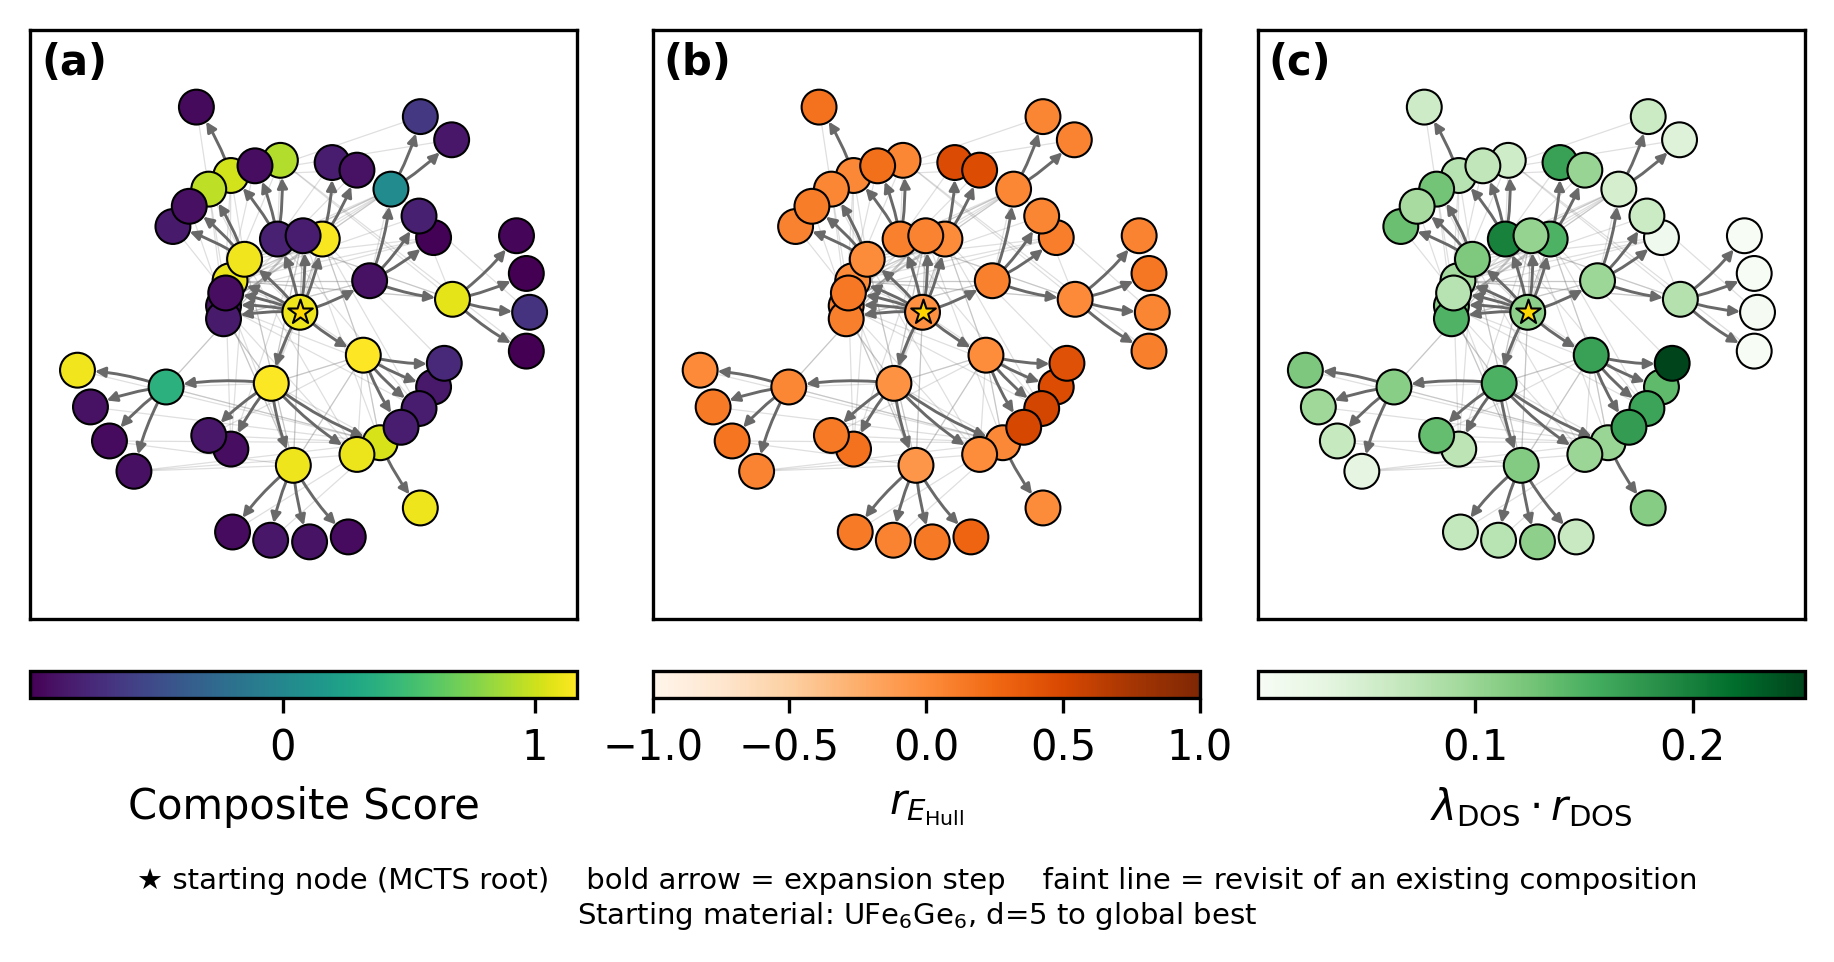
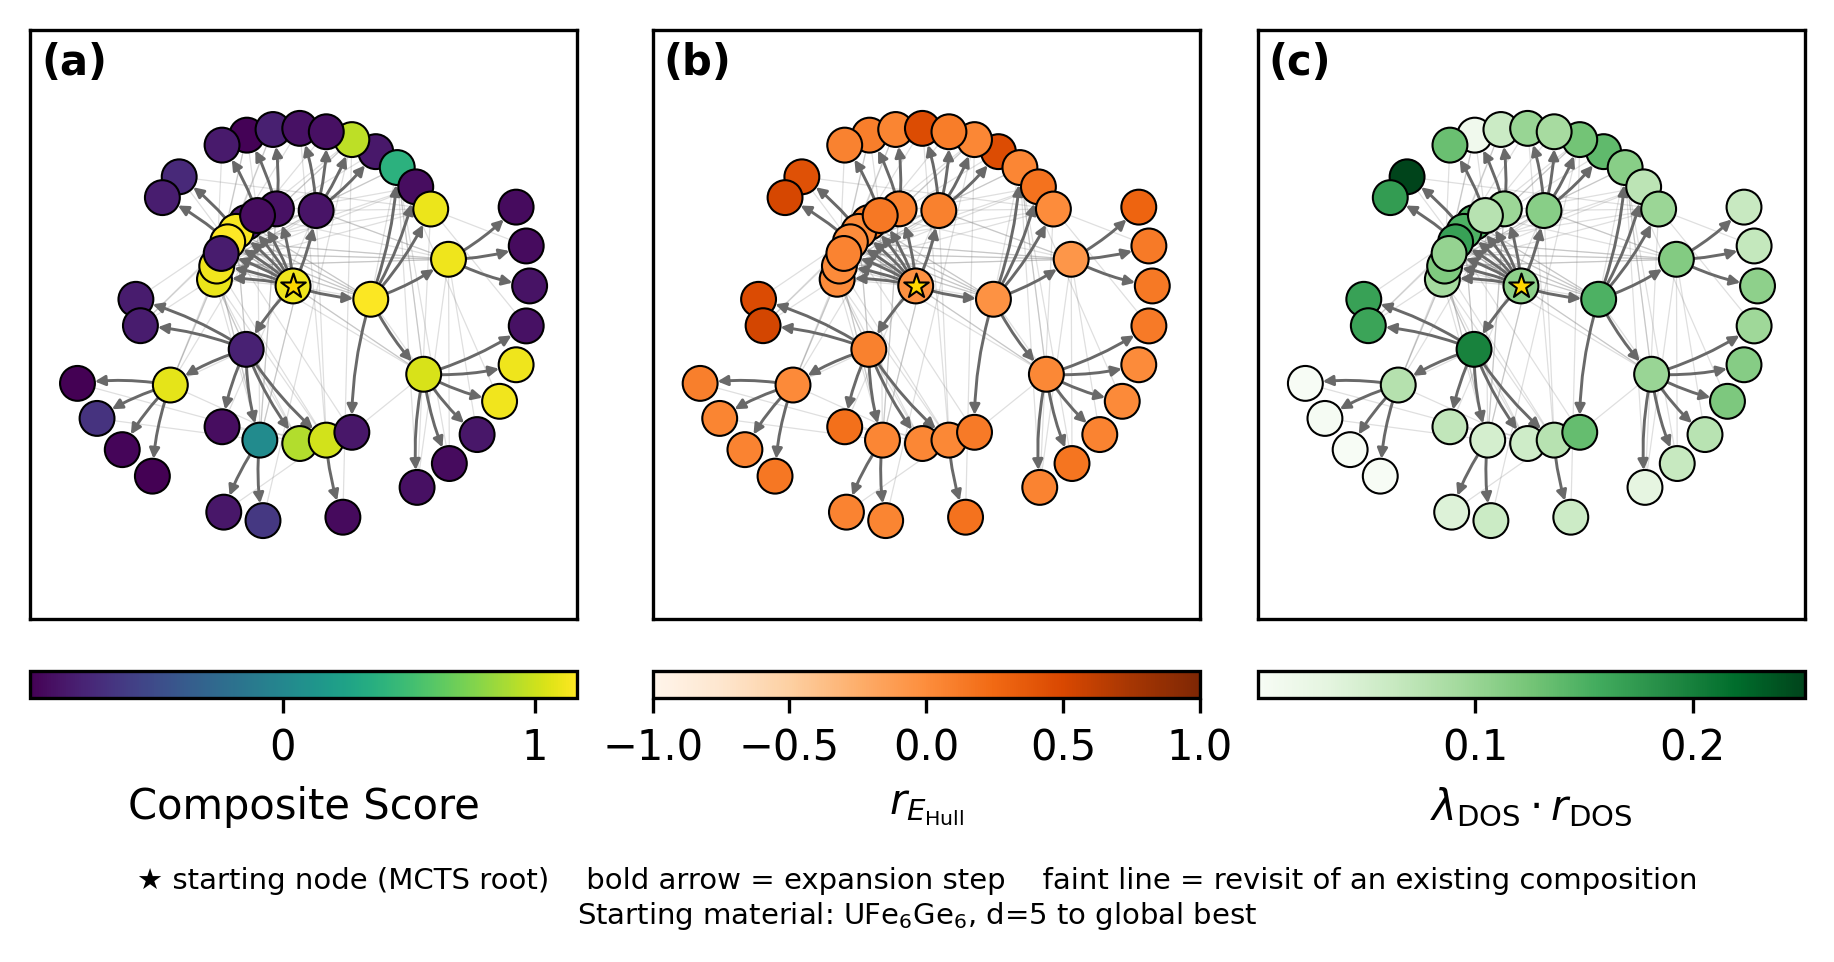
Reorganized file structure

Changed region(s): [[0.373, 0.0936, 0.6527, 0.5925], [0.0311, 0.0936, 0.3108, 0.5925], [0.6838, 0.0936, 0.9945, 0.5925]]

diff --git a/analysis/ehull_rdos_u_only_study/synthesized_compounds.py b/analysis/ehull_rdos_u_only_study/synthesized_compounds.py
@@ -1,9 +1,9 @@
 """Shared metadata for the U-only ehull_rdos study.
 
 Single source of truth for the four U-compounds our experimentalists have
-successfully synthesized in the past, used to flag "Priority Match" rows in
-generate_top10_report.py and the synthesized-compound overlay in
-generate_figures.py. Dash "f_block-groupIV-metal" format - see
+successfully synthesized in the past, used to flag the "Synth" column in
+write_top15_table and the synthesized-compound overlay in plot_ehull_vs_rdos
+(both in generate_figures.py). Dash "f_block-groupIV-metal" format - see
 DoscarRewardLookup.convert_formula_to_doscar_format.
 """
 

diff --git a/sensitivity_studies/README.md b/sensitivity_studies/README.md
@@ -28,14 +28,19 @@ Run `bash scripts/run_all.sh` to reproduce everything (~15-20 min).
 ### `c_sweep` - exploration_constant (0.05, 0.1, 0.2, 0.5 calibrated, 1.0)
 **No measurable effect.** See "Why c and selection_mode show no effect" below.
 
-### `starting_material_sweep` - Cr6Sn6U / V6Ge6U / Nb6Ge6U / Zr6Ge6U
-(graph-distance-to-nearest-target of 3/4/5/6 hops respectively, excluding the
-four target compounds themselves)
+### `starting_material_sweep` - V6Ge6U / Ru6Ge6U / Pd6Ge6U / Cu6Ge6U
+(move-graph distance to the true global-best U-only compound of d=2/4/6/8
+respectively, out of a max possible d=9 in this search space)
 
 **Clear, monotonic effect**: convergence speed tracks starting-point distance
-directly - Cr6Sn6U (distance 3, the calibrated choice) reaches the plateau
-fastest, Zr6Ge6U (distance 6) slowest. This is the parameter that actually
-matters most for "rate of convergence" in this search space.
+directly - V6Ge6U (d=2) reaches the plateau fastest, Cu6Ge6U (d=8) slowest.
+This is the parameter that actually matters most for "rate of convergence" in
+this search space. The sweep script for this one now lives in
+`analysis/ehull_rdos_u_only_study/sweep_starting_material.py` (it directly
+feeds that study's `convergence_by_starting_material.png`, so it's kept next
+to the other figure-generating code rather than here) - it still reuses this
+directory's `common.py` harness and writes to the same
+`results/starting_material_sweep/convergence_data.csv` below.
 
 ### `selection_mode_sweep` - ucb1 (calibrated) / epsilon_greedy / boltzmann / puct / hybrid
 **No measurable effect**, for the same root cause as `c_sweep`.
@@ -81,15 +86,14 @@ sensitivity_studies/
   scripts/
     common.py                     # shared setup + replicate-running helper
     sweep_c.py
-    sweep_starting_material.py
     sweep_selection_mode.py
     sweep_rollout_params.py        # n_rollout, rollout_depth, termination_limit
     plot_sweep.py                  # generic convergence-curve figure (3x3in, 10pt)
     plot_termination_iterations.py # iterations-completed bar chart for termination_limit
-    run_all.sh                      # reproduces everything
+    run_all.sh                      # reproduces everything except starting_material_sweep
   results/
     c_sweep/
-    starting_material_sweep/
+    starting_material_sweep/        # generated by analysis/ehull_rdos_u_only_study/sweep_starting_material.py
     selection_mode_sweep/
     rollout_params_sweep/
 ```

diff --git a/README.md b/README.md
@@ -295,7 +295,8 @@ mcts_materials/
 `analysis/ehull_rdos_u_only_study/` contains the scripts used to run and analyze the U-only `ehull_rdos` study (U-only f-block mode; `--rollout-method ehull_rdos`, plus `iterations`/`selection_mode`/`exploration_constant`/`beta`/`gamma`/`transition_metal`/`group_iv` all read from `config.json` rather than hardcoded in the script - see `config.json`/`config.example.json` for current values):
 
 - `run_study.sh`: runs `run_mcts.py` with the published settings, then calls `generate_plots.sh`
-- `generate_plots.sh`: regenerates all figures (composite-score bar charts, E_hull-vs-rDOS scatter, convergence plot, composite-colored radial tree) via `generate_figures.py`, plus `generate_top10_report.py` for the ranked compound list
+- `generate_plots.sh`: regenerates all figures (E_hull-vs-rDOS scatter, convergence-by-starting-material plot, composite-colored radial tree) and the top-15 LaTeX table via `generate_figures.py`
+- `sweep_starting_material.py`: replicate-run sweep (5 seeds each) across starting materials at increasing move-graph distance from the global-best compound, feeding `convergence_by_starting_material.png`
 
 This requires `high_throughput_mace_results.full.csv` and `doscar_peaks_data_with_U.csv` locally (see [Data Availability](#data-availability)), and a Materials Project API key via `config.json` or `MP_API_KEY`.
 